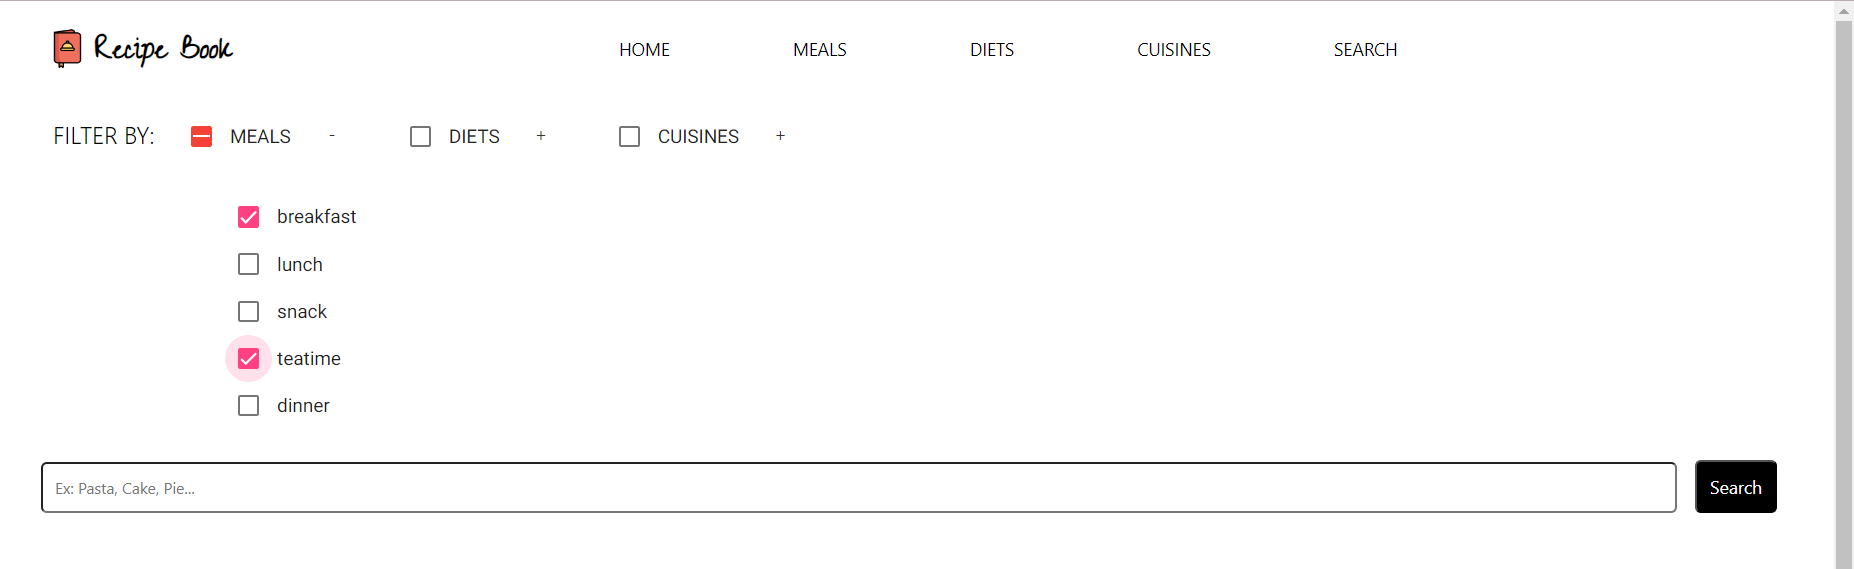
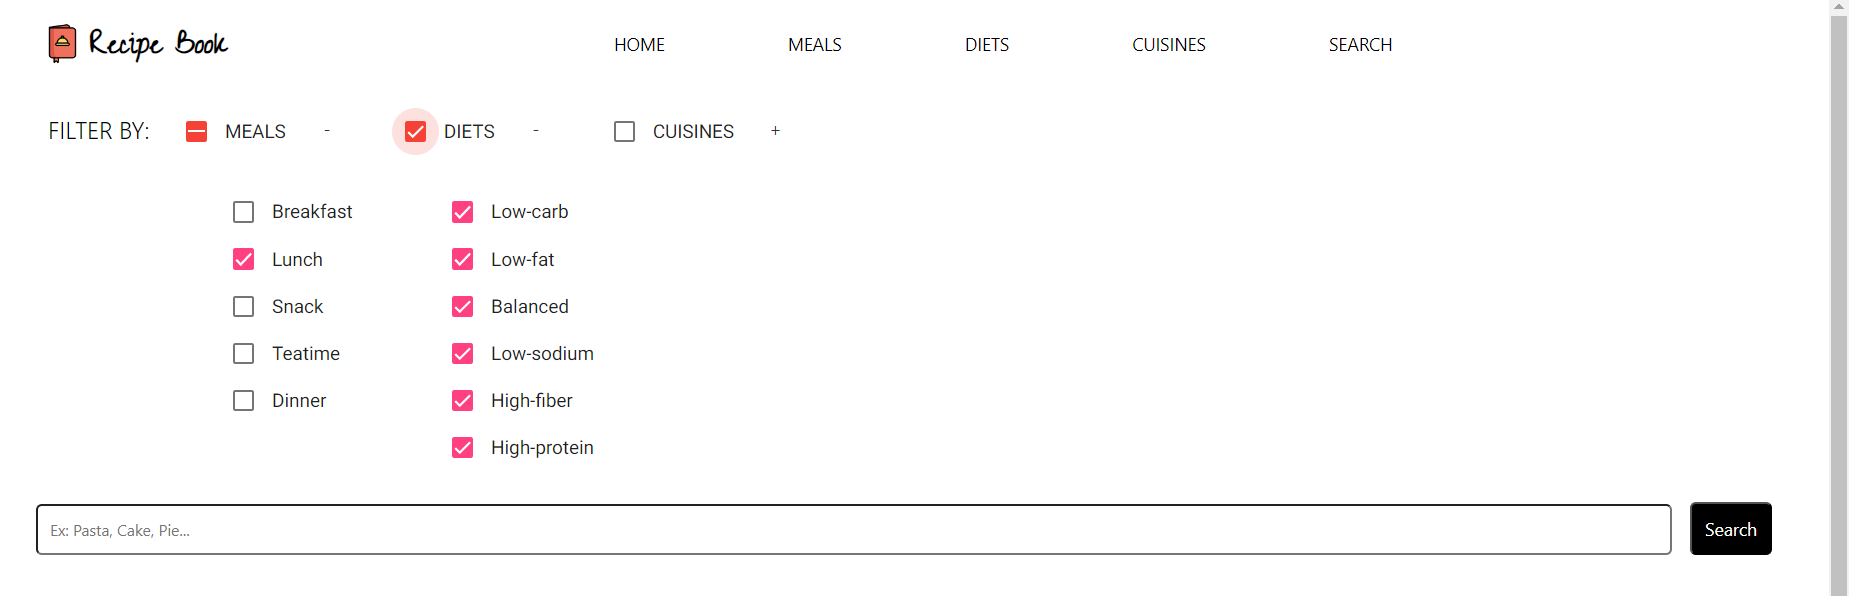
ajustes na página de busca

diff --git a/src/app/pages/search-page/search-page.component.html b/src/app/pages/search-page/search-page.component.html
@@ -25,7 +25,7 @@
               [color]="subtask.color"
               (ngModelChange)="updateAllComplete(i)"
             >
-              {{ subtask.name }}
+              {{ subtask.name | titlecase }}
             </mat-checkbox>
           </li>
         </ul>
